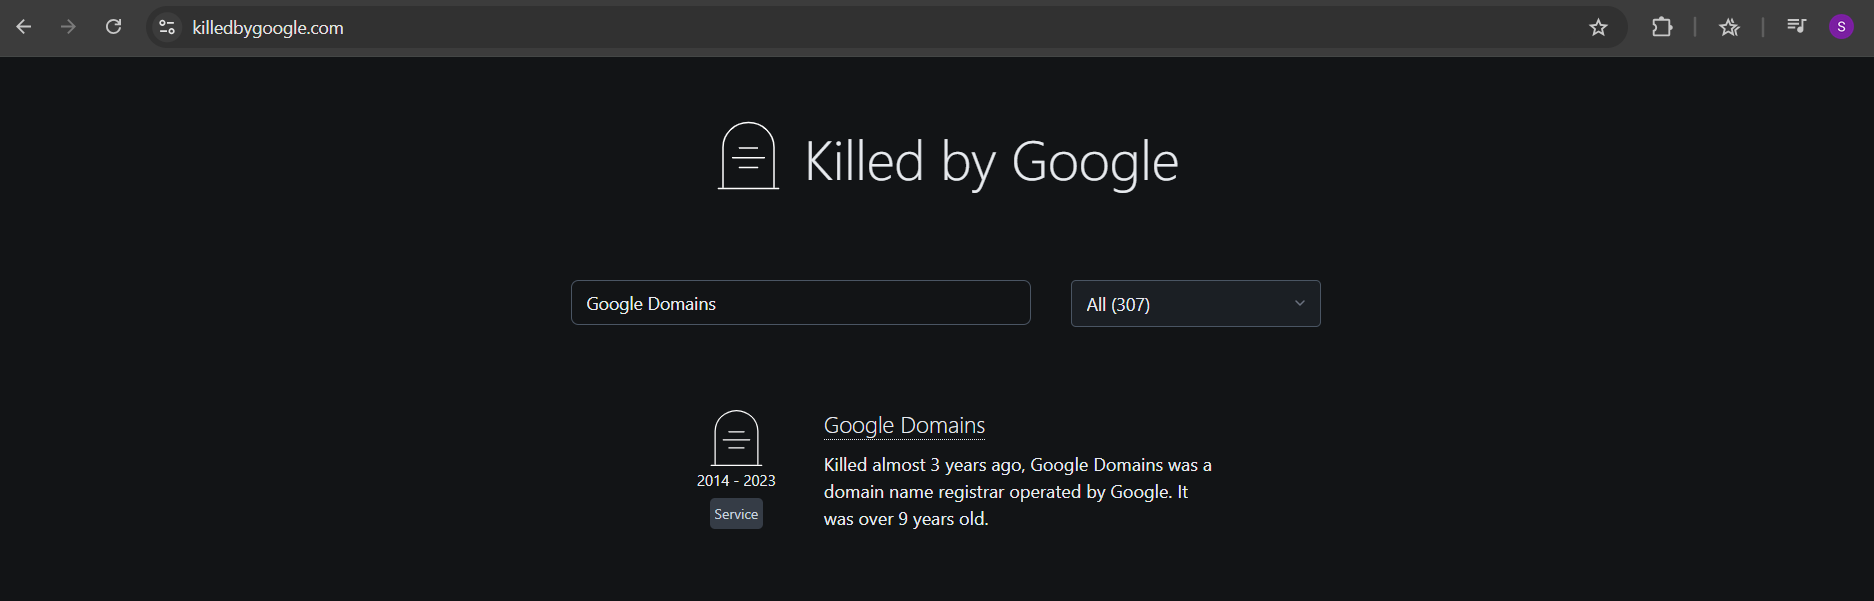
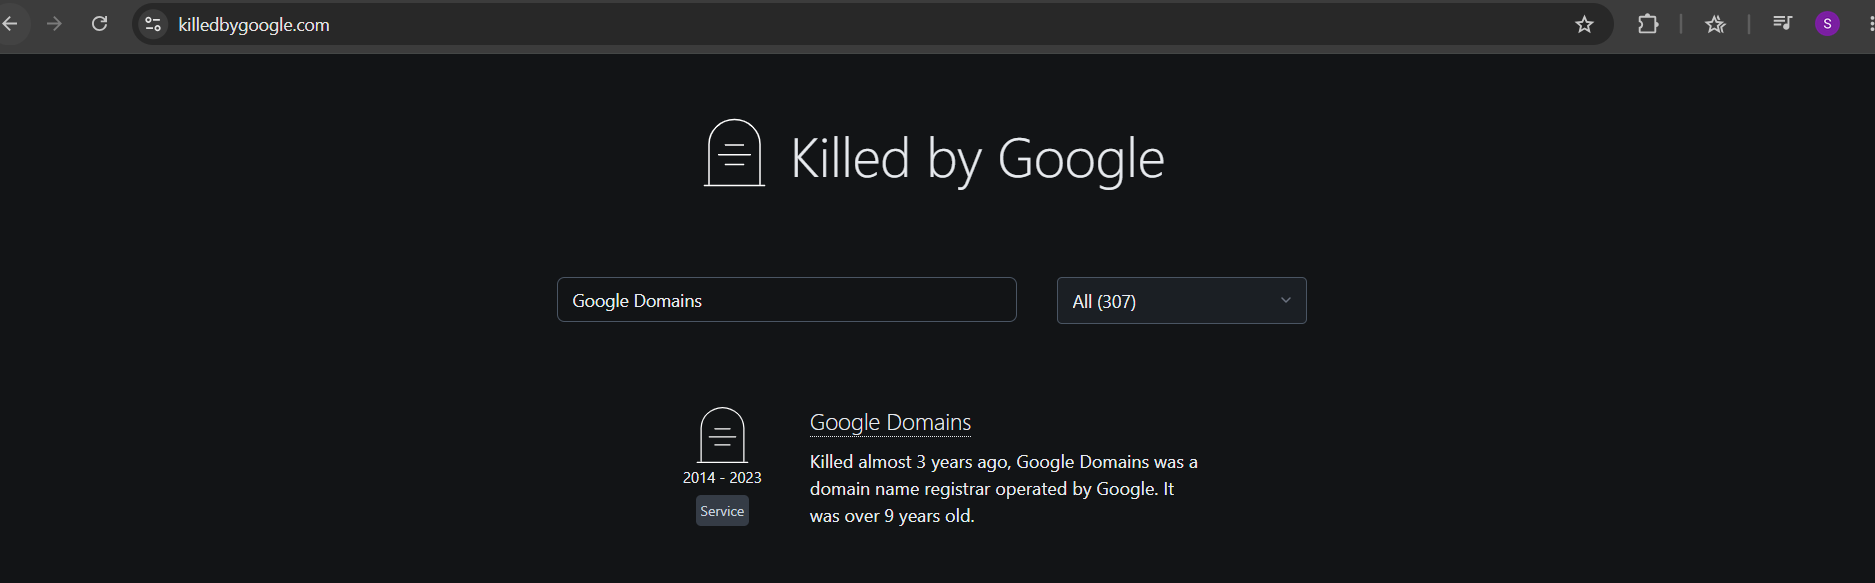
Publish 'why I moved to Jekyll' blog post
First real blog post, in both languages: the story of moving from
a React.js/Three.js portfolio to this Jekyll setup. Removes the
draft flag/comment and updates the two screenshots to their final
versions.

diff --git a/_posts/tr-tur/2026-09-20-neden-jekyll-tasidim.md b/_posts/tr-tur/2026-09-20-neden-jekyll-tasidim.md
@@ -1,5 +1,4 @@
 ---
-published: false
 layout: post
 title: Sitemi neden React.js'ten Jekyll'e taşıdım
 date: 2026-09-20 12:00:00+0300
@@ -9,28 +8,21 @@ categories: veri-mühendisliği
 related_posts: false
 ---
 
-<!--
-TASLAK — gözden geçir, kendi sesine göre son rötuşları sen yap.
-Yazı bitince en üstteki "published: false" satırını sil (ya da true yap), sonra canlıya alırız.
--->
-
-Okuldan mezuniyetime yakın bir zamanda, kişisel bir web sitemin olmasının faydalı olacağını düşünmeye başlamıştım. Hem teknik hem hobi amaçlı içeriklerimin bir arada bulunacağı, kişisel marka inşası için gerekli bir alan arayışındaydım. Kısacası, bir blog arayışım vardı.
+Okuldan mezuniyetime yakın, kişisel bir web sitemin olmasının hem teknik hem de hobi amaçlı içeriklerimi toplamak ve kişisel markamı inşa etmek için iyi bir adım olacağını düşünmeye başladım. Kısacası, bir blog arayışındaydım.
 
 ## Neden sıfırdan değil, bir klon proje ile başladım
 
-Bu alandaki uzmanlığımın henüz kısıtlı olması sebebiyle, bir klon projeyi kendi tercih ve isteklerime göre uyarlama fikri doğdu. Sıfırdan yapmak her ne kadar öğretici ve tecrübe kazanmak için iyi bir yöntem olsa da, siteyi inşa ettiğim 2024 yılında henüz iş hayatına atılmamıştım ve frontend/web geliştirmenin doygunlaşmaya başladığını, bu alanda çok fazla rekabet olduğunu görüyordum. Dolayısıyla kariyerime doğrudan fayda sağlamayacak bir alanda fazla zaman harcamak istemedim ve bir klon proje ile başlamaya karar verdim.
+Bu alandaki tecrübem henüz kısıtlı olduğu için, hazır bir klon projeyi kendi isteklerime göre uyarlama fikri cazip geldi. Sıfırdan yapmak şüphesiz öğretici bir yöntem; fakat siteyi inşa ettiğim 2024 yılında henüz iş hayatına atılmamıştım. Frontend ve web geliştirme alanının giderek doygunlaştığını, çok fazla rekabet olduğunu görüyordum. Doğrudan kariyerime odaklanmam gereken o dönemde, bu alanda fazla zaman harcamak istemedim ve bir klon projeyle yola çıktım.
 
-## İlham kaynağım: JavaScript Mastery
+YouTube'da uzun zamandır takip ettiğim [JavaScript Mastery](https://www.youtube.com/@javascriptmastery) kanalı bu süreçte oldukça işime yaradı. AI dönemi henüz başlamamışken bile uçtan uca çalışan, tutarlı teknolojileri anlatan harika tutoriallar paylaşıyorlar (hâlâ da üretmeye devam ediyorlar). Özellikle öğrenciyseniz kesinlikle göz atmalısınız. Zaten bir konuda hiçbir şey bilmeyip uzmanlaşmak istiyorsanız, uçtan uca çalışan bir proje yapmak yazılımcıların ne yaptığını anlamak ve neyi istemediğinizi fark etmek için en iyi yollardan biri.
 
-YouTube'da uzun zamandır takip ettiğim [JavaScript Mastery](https://www.youtube.com/@javascriptmastery) adında bir kanal var. AI hype'ı henüz doğmamışken, how-to tarzında tutoriallara sahip, yazılım geliştirmenin bir çok alanına dokunan bir kanal; özellikle okul ve kişisel projelerimiz için gerçekten ihtiyaç duyduğumuz, tutarlı teknolojileri anlatan içerikler paylaşıyorlar. Hâlâ çok başarılı içerikler üretiyorlar; özellikle hâlâ öğrenciyseniz videolarına göz atmanızı şiddetle tavsiye ederim. Bir konuda hiçbir şey bilmeyen ama o konuda uzmanlaşmak isteyen birine, her zaman uçtan uca çalışan bir klon proje yapmasını tavsiye etmişimdir — bu, developer'ların ne yaptığını anlamak isteyen biri için çok tecrübe dolu oluyor ve ne yapmak istediğini ya da istemediğini çok daha iyi kavrıyorsun.
-
-Bu araştırma sürecinde "Build and Deploy an Amazing 3D Web Developer Portfolio in React JS | Beginner Three.js Tutorial" adlı [videoyu](https://www.youtube.com/watch?v=0fYi8SGA20k) buldum. Başlangıç için statik bir sitenin fena olmayacağını, ileride kendime göre uyarlamak istersem bunun görece basit olacağı kanaatine vardım ve bu videodan faydalanarak projemi ayağa kaldırdım.
+Bu araştırmalar sırasında bulduğum "Build and Deploy an Amazing 3D Web Developer Portfolio in React JS \| Beginner Three.js Tutorial" adlı [videodan](https://www.youtube.com/watch?v=0fYi8SGA20k) faydalanarak ilk projemi ayağa kaldırdım. Başlangıç için statik ve havalı bir sitenin fena olmayacağını düşünmüştüm.
 
 ## İlk sürüm: domain arayışı ve React.js portföyü
 
-O zamanlar Google Domains üzerinden ad-soyad temalı domainlere bakıyordum; arzu ettiğim tüm domainlerin alınmış olması hayal kırıklığı yaratsa da sonunda `salihkilic.net`'i satın aldım. YouTube videosunu izleyerek projemi ayağa kaldırdım.
+O dönem Google Domains üzerinden ad-soyad temalı domain arıyordum. İstediğim adreslerin çoğu alınmış olsa da sonunda [salihkilic.net](https://salihkilic.net)'i satın aldım. Videoyu takip ederek projeyi kurdum.
 
-Kaynak kodunu dilerseniz [buradaki repo](https://github.com/Salih2000/mypersonelwebsiteportfolio-main) üzerinden inceleyebilirsiniz. Site hâlâ Firebase üzerinde durduğu için canlı halini de paylaşayım: [personel-website-53a82.web.app](https://personel-website-53a82.web.app/)
+Dilerseniz kaynak koduna [buradaki repo](https://github.com/Salih2000/mypersonelwebsiteportfolio-main) üzerinden göz atabilirsiniz. Site hâlâ Firebase üzerinde durduğu için canlı haline de [şuradan](https://personel-website-53a82.web.app/) ulaşabilirsiniz.
 
 {% include figure.liquid loading="eager" path="assets/img/2026-09-20-old-react-portfolio.png" class="img-fluid rounded z-depth-1" %}
 <div class="caption">
@@ -39,15 +31,15 @@ Kaynak kodunu dilerseniz [buradaki repo](https://github.com/Salih2000/mypersonel
 
 ## Sorun: 3D sahnelerin ve yüksek render maliyetinin bedeli
 
-Kişisel sitemi ayağa kaldırdıktan sonra, yoğun 3D sahne kullanımının görsel olarak iyi görünse de performans, indeksleme (indexing) ve SEO açısından ciddi problemler yarattığını fark ettim.
+Sitemi ayağa kaldırdıktan sonra fark ettim ki, yoğun 3D sahne kullanımı görsel olarak ne kadar şık dursa dursun; performans, indeksleme (indexing) ve SEO açısından ciddi sıkıntılar yaratıyordu.
 
-## Yeni arayış: içerik/blog odaklı bir teknolojiye geçiş
+## Yeni arayış: içerik odaklı bir teknoloji
 
-Sektörde adını duyurmuş birçok geliştiricinin blog ve içerik üretimi temalı web siteleri olduğunu görünce, blogumu üretebileceğim bir teknolojiye geçme fikri oluştu. Klasik WordPress ya da benzeri araçları da araştırdım ama arzu ettiğim açık kaynak kodlama esnekliğini tam olarak yakalayamadım. Bir arkadaşımın tavsiyesiyle Jekyll'in bu tarz işler için çok ideal olduğunu öğrendim ve GitHub üzerinde hazır blog temalarını araştırmaya başladım.
+Sektörde beğendiğim birçok geliştiricinin içerik üretimi odaklı sade web siteleri olduğunu görünce, benim de bu yöne evrilmem gerektiğine karar verdim. Klasik WordPress veya benzeri araçları inceledim ancak aradığım açık kaynak kod esnekliğini bulamadım. Bir arkadaşımın tavsiyesiyle Jekyll'in bu iş için biçilmiş kaftan olduğunu öğrendim ve GitHub üzerindeki hazır temaları incelemeye başladım.
 
-İşte o sırada, tam da istediğim gibi sade, içerik odaklı, düzenli olarak topluluk tarafından desteklenen, Jekyll ile inşa edilen ve GitHub Pages'te ücretsiz olarak host edip kendi domainime bağlayabileceğim [al-folio](https://github.com/alshedivat/al-folio) temasına denk geldim. Kurulumu biraz zaman alsa da dokümantasyonuna bakarak canlıya aldım.
+Tam da aradığım gibi sade, içerik odaklı, topluluk tarafından aktif desteklenen ve GitHub Pages üzerinde ücretsiz barındırıp kendi domainime bağlayabileceğim [al-folio](https://github.com/alshedivat/al-folio) temasına denk geldim. Kurulumu biraz vakit alsa da dokümantasyonu takip ederek sistemi canlıya aldım.
 
-Domainimi eski React formatıyla ayağa kaldırdıktan sonra aradan biraz zaman geçmişti; o sırada Google Domains'in Google tarafından kapatıldığına dair mail gelmiş olsa da tam takip edememiştim ([killedbygoogle.com](https://killedbygoogle.com/)). Akabinde Squarespace üzerinden ilgili DNS yönlendirmelerini yaparak web sitemi tekrar ayağa kaldırdım.
+Bu süreçte Google Domains'in Google tarafından kapatıldığını öğrendim ([killedbygoogle.com](https://killedbygoogle.com/)). Hemen Squarespace üzerinden gerekli DNS yönlendirmelerini yaparak sitemi sorunsuz şekilde tekrar aktif hale getirdim.
 
 {% include figure.liquid loading="eager" path="assets/img/2026-09-20-killed-by-google.png" class="img-fluid rounded z-depth-1" %}
 <div class="caption">
@@ -56,16 +48,18 @@ Domainimi eski React formatıyla ayağa kaldırdıktan sonra aradan biraz zaman 
 
 ## Şu an neden bu yapıda karar kıldım
 
-Mevcut haliyle, blog anlamında bir veri alanına ihtiyaç duyan, çalışan bir geliştirici olarak şimdilik tüm ihtiyaçlarımı karşılayacağını fark ettim. Şu özellikleri özellikle işime yarıyor:
+Mevcut yapım, çalışan bir geliştirici olarak tüm temel ihtiyaçlarımı fazlasıyla karşılıyor:
 
-- **Çoklu dil desteği** — Türkçe ve İngilizce içeriği aynı sitede, hem yerel hem uluslararası kitleye hitap edebiliyorum.
-- **Markdown ile içerik üretimi** — kod yazmadan, sade bir metin dosyasıyla yeni bir yazı yayınlayabiliyorum.
-- **GitHub Pages üzerinde tamamen ücretsiz barındırma**, kendi domainimi bağlayabilme imkanıyla birlikte.
-- **Tek bir veri dosyasından CV üretimi** — özgeçmiş bilgim hem web sayfası hem indirilebilir PDF olarak tek kaynaktan güncelleniyor.
-- **Hazır analitik entegrasyonları** — Google Analytics, Search Console ve Microsoft Clarity gibi araçları birkaç satır ayarla bağlayabiliyorum.
-- **Statik site olduğu için hızlı yüklenme ve SEO dostu yapı** — eski sitemdeki 3D sahne yükünün aksine.
-- **GitHub Actions ile otomatik deploy** — bir değişikliği push'ladığımda site kendiliğinden güncelleniyor.
+- **Çoklu dil desteği:** Türkçe ve İngilizce içeriği aynı sitede tutabiliyorum; hem yerel hem uluslararası kitleye hitap edebiliyorum.
+- **Kolay içerik üretimi:** Yeni bir yazı yazmak için kod yazmama gerek kalmıyor; sade bir Markdown dosyası açmak yeterli oluyor.
+- **Sıfır maliyet ve kolay barındırma:** GitHub Pages üzerinde tamamen ücretsiz host ediliyor ve kendi domainimle çalışıyor.
+- **Tek kaynaktan CV:** Özgeçmişim tek bir veri dosyasından besleniyor; bilgileri bir kez güncellediğimde hem web sayfası hem de indirilebilir PDF otomatik güncelleniyor.
+- **Kolay entegrasyonlar:** Google Analytics, Search Console ve Microsoft Clarity gibi araçları birkaç satırlık ayarla bağladım, ekstra bir entegrasyon derdi yok.
+- **Hız ve SEO:** Statik bir yapıda olduğu için hem uçuyor hem de SEO dostu; eski sitemdeki ağır 3D sahnelerin tam zıttı bir performans sunuyor.
+- **Otomatik dağıtım:** GitHub Actions sayesinde repoya ufak bir push yaptığımda site anında güncelleniyor.
 
-Aslında bu yazının içeriği başta "bunu siz de nasıl yaparsınız" tarzı bir rehber olacaktı; ama sonunda bunun yerine "neden bunu tercih ettim" yazısı olmasının daha uygun olduğuna karar verdim. Çünkü günümüzde yapay zeka sayesinde böyle bir siteyi ayağa kaldırmak, açıkçası benim burada yazacağım bir rehberden çok daha fazla yardımcı olacaktır size — muhtemelen blogumda oluşturmak istediğim içerikler de artık "nasıl yapılır" demekten ziyade "neden tercih ettim" ve o konudaki geri dönütlerime yönelik olacak, zira Agentic AI artık bu tarz kurulum/manuel süreçleri çok daha anlaşılır ve uygulanabilir şekilde sunuyor.
+Aslında bu yazının ilk taslağı "bunu siz de nasıl adım adım kurarsınız" tarzı bir rehber olacaktı. Fakat bunun yerine "neden bu tercihi yaptım" yazısı olmasının daha doğru olduğuna karar verdim. Çünkü günümüzde yapay zeka araçları sayesinde bu tarz teknik kurulumları yapmak, benim burada anlatacağımdan çok daha kolay ve anlaşılır hale geldi. Muhtemelen bundan sonra blogumda üreteceğim içerikler de "nasıl yapılır" rehberlerinden ziyade, "neden tercih ettim" odaklı ve teknik tecrübelerimi aktardığım yazılar olacak.
 
-Gün sonunda mevcut yapıda ağırlıklı ve kaliteli sayılabilecek bir içeriğim henüz yok; bunlara nasıl zaman ayıracağımı planlamam gereken bir durum. Lakin yakın zamanda blogumu doldurmayı düşünüyorum — gerek mesleki deneyim ve uzmanlığıma, gerekse hobilerime ve günlük hayatta yaşadığım durumlara yönelik içerikler olabilir bunlar.
+Şimdilik kaliteli ve ağırlıklı sayılabilecek geniş bir içeriğim henüz yok (henüz! :D), bunlara nasıl zaman ayıracağımı planlıyorum. Lakin yakın zamanda hem mesleki birikimlerimi hem de günlük hayattaki hobilerimi ve deneyimlerimi buraya taşımayı düşünüyorum.
+
+Eğer siz de bu tarz bir altyapıyı kurmak isterseniz, kullandığım çok dilli [al-folio](https://github.com/george-gca/multi-language-al-folio) reposunun README dokümantasyonunu bir AI aracıyla birlikte incelemenizi şiddetle tavsiye ederim. Az çok teknik altyapınız varsa hiç de zor değil. Dost ve müttefik çevremdeyseniz zaten doğrudan bana da ulaşabilirsiniz, seve seve yönlendiririm.

diff --git a/_posts/en-us/2026-09-20-neden-jekyll-tasidim.md b/_posts/en-us/2026-09-20-neden-jekyll-tasidim.md
@@ -1,5 +1,4 @@
 ---
-published: false
 layout: post
 title: Why I moved my site from React.js to Jekyll
 date: 2026-09-20 12:00:00+0300
@@ -9,28 +8,21 @@ categories: data-engineering
 related_posts: false
 ---
 
-<!--
-DRAFT — review it and add your own final touches in your own voice.
-Once the post is finished, remove (or set to true) the "published: false" line above, then we'll publish it.
--->
-
-Around the time I was about to graduate from university, I started thinking that having a personal website could be valuable — a place to bring my technical and hobby content together, and something I needed for building a personal brand. In short, I was looking for a blog.
+Around the time I was about to graduate from university, having a personal website started to seem like a good step for bringing together both my technical and hobby content and for building my personal brand. In short, I was looking for a blog.
 
 ## Why I started with a clone project instead of building from scratch
 
-Since my expertise in this area was still limited, I got the idea of adapting a clone project to my own preferences and needs. Building something from scratch is a great way to learn and gain experience, but back in 2024, when I built the site, I hadn't yet entered the workforce, and I could already see that frontend/web development was becoming saturated with a lot of competition. So I didn't want to spend too much time in an area that wouldn't directly benefit my career, and decided to start with a clone project instead.
+Since my experience in this area was still limited, the idea of adapting a ready-made clone project to my own needs seemed appealing. Building from scratch is undoubtedly a great way to learn; but back in 2024, when I built the site, I hadn't yet entered the workforce. I could see that frontend and web development was becoming increasingly saturated, with a lot of competition. Needing to focus directly on my career at the time, I didn't want to spend too much time in this area, and went with a clone project instead.
 
-## My inspiration: JavaScript Mastery
+The [JavaScript Mastery](https://www.youtube.com/@javascriptmastery) channel, which I've followed on YouTube for a long time, was a big help during this process. Even before the AI era began, they were sharing great tutorials on consistent, end-to-end working technologies (and they still are). If you're a student, you should definitely check them out. If you know nothing about a topic and want to specialize in it, building an end-to-end working project is one of the best ways to understand what developers actually do and to figure out what you don't want to do.
 
-There's a YouTube channel I've followed for a long time called [JavaScript Mastery](https://www.youtube.com/@javascriptmastery). Back before the AI hype, it was a channel with how-to style tutorials touching many areas of software development — sharing content about the consistent technologies we actually need for school and personal projects. They still put out great content; I'd strongly recommend checking out their videos, especially if you're still a student. I've always recommended that someone who knows nothing about a topic but wants to specialize in it should build a complete, working clone project end to end — it's an experience that really helps you understand what developers actually do, and gives you a much better sense of what you do and don't want to do yourself.
-
-During this research, I came across a video called "Build and Deploy an Amazing 3D Web Developer Portfolio in React JS | Beginner Three.js Tutorial" ([link](https://www.youtube.com/watch?v=0fYi8SGA20k)). I figured a static site wouldn't be a bad starting point, and that it would be relatively simple to customize later on my own, so I used this video to get my project off the ground.
+Using the ["Build and Deploy an Amazing 3D Web Developer Portfolio in React JS \| Beginner Three.js Tutorial"](https://www.youtube.com/watch?v=0fYi8SGA20k) video I found during this research, I got my first project off the ground. I figured a static, flashy site wouldn't be a bad starting point.
 
 ## First version: the domain search and the React.js portfolio
 
-Back then I was searching Google Domains for domains matching my name; it was disappointing to find all the domains I wanted already taken, but I eventually bought `salihkilic.net`. I built my project by following the YouTube video.
+Back then I was searching Google Domains for domains matching my name. Most of the addresses I wanted were already taken, but I eventually bought [salihkilic.net](https://salihkilic.net). I built the project by following the video.
 
-If you'd like, you can check out the source code in [this repo](https://github.com/Salih2000/mypersonelwebsiteportfolio-main). The site is still hosted on Firebase, so here's the live version too: [personel-website-53a82.web.app](https://personel-website-53a82.web.app/)
+If you'd like, you can check out the source code in [this repo](https://github.com/Salih2000/mypersonelwebsiteportfolio-main). The site is still hosted on Firebase, so you can also reach the live version [here](https://personel-website-53a82.web.app/).
 
 {% include figure.liquid loading="eager" path="assets/img/2026-09-20-old-react-portfolio.png" class="img-fluid rounded z-depth-1" %}
 <div class="caption">
@@ -39,15 +31,15 @@ If you'd like, you can check out the source code in [this repo](https://github.c
 
 ## The problem: 3D scenes and the inevitable cost of heavy rendering
 
-After getting my personal site up and running, I noticed that the heavy use of 3D scenes, while visually nice, was causing serious problems with performance, indexing, and SEO.
+After getting my site up and running, I realized that heavy use of 3D scenes, no matter how stylish it looked visually, was causing serious problems with performance, indexing, and SEO.
 
-## The new search: moving to a content/blog-focused technology
+## The new search: a content-focused technology
 
-Once I noticed that many developers who had made a name for themselves in the industry had blog- and content-focused websites, I got the idea of moving to a technology where I could actually produce a blog. I also looked into classic WordPress and similar tools, but they didn't quite give me the open-source flexibility I wanted. A friend recommended Jekyll as ideal for this kind of work, so I started researching ready-made blog themes on GitHub.
+Once I noticed that many developers I admired in the industry had clean, content-focused websites, I decided I needed to move in that direction too. I looked into classic WordPress and similar tools, but couldn't find the open-source flexibility I was after. A friend recommended Jekyll as tailor-made for this kind of work, so I started looking through ready-made themes on GitHub.
 
-That's when I came across [al-folio](https://github.com/alshedivat/al-folio) — exactly the kind of clean, content-focused theme I wanted, built on Jekyll, actively maintained by its community, and something I could host for free on GitHub Pages while connecting it to my own domain. The setup took a bit of time, but I got it live by following the documentation.
+That's when I came across [al-folio](https://github.com/alshedivat/al-folio) — exactly the clean, content-focused theme I was looking for, actively maintained by its community, and something I could host for free on GitHub Pages while connecting it to my own domain. The setup took a bit of time, but I got the system live by following the documentation.
 
-Some time had passed since I'd set my domain up with the old React version; around then an email had come in about Google Domains being shut down by Google, but I hadn't really kept up with it ([killedbygoogle.com](https://killedbygoogle.com/)). I then set up the DNS redirects through Squarespace and got my website running again.
+Around this time I learned Google Domains had been shut down by Google ([killedbygoogle.com](https://killedbygoogle.com/)). I quickly set up the necessary DNS redirects through Squarespace and got my site back up and running without issue.
 
 {% include figure.liquid loading="eager" path="assets/img/2026-09-20-killed-by-google.png" class="img-fluid rounded z-depth-1" %}
 <div class="caption">
@@ -56,16 +48,18 @@ Some time had passed since I'd set my domain up with the old React version; arou
 
 ## Why I've settled on this setup for now
 
-As it stands, I've realized this covers all of my needs for now as a working developer who wants a space for a blog. A few things that have particularly worked well for me:
+As a working developer, my current setup more than covers all of my basic needs:
 
-- **Multi-language support** — Turkish and English content on the same site, so I can speak to both a local and an international audience.
-- **Writing content in Markdown** — I can publish a new post with a plain text file, no coding required.
-- **Completely free hosting on GitHub Pages**, along with the ability to connect my own domain.
-- **CV generation from a single data file** — my resume information is updated from one source, shown both as a web page and as a downloadable PDF.
-- **Ready-made analytics integrations** — I can wire up tools like Google Analytics, Search Console, and Microsoft Clarity with just a few config lines.
-- **Fast load times and an SEO-friendly structure since it's a static site** — the opposite of the 3D scene overhead on my old site.
-- **Automatic deployment via GitHub Actions** — the site updates itself whenever I push a change.
+- **Multi-language support:** I can keep Turkish and English content on the same site, speaking to both a local and an international audience.
+- **Easy content creation:** I don't need to write any code for a new post; opening a plain markdown file is enough.
+- **Zero cost, easy hosting:** it's hosted completely free on GitHub Pages and works with my own domain.
+- **CV from a single source:** my resume is driven from a single data file; when I update the information once, both the web page and the downloadable PDF update automatically.
+- **Easy integrations:** I wired up tools like Google Analytics, Search Console, and Microsoft Clarity with just a few lines of config, no extra integration hassle.
+- **Speed and SEO:** being a static setup, it's both blazing fast and SEO-friendly — the exact opposite of the performance under the heavy 3D scenes on my old site.
+- **Automatic deployment:** thanks to GitHub Actions, the site updates instantly the moment I push even a small change to the repo.
 
-Honestly, this post was originally going to be a "here's how you can do this too" style guide; in the end, though, I decided a "why I chose this" post made more sense. Because these days, thanks to AI, setting up a site like this will honestly help you a lot more than any guide I could write here — the content I want to build on my blog going forward will probably lean more toward "why I chose this" and my own feedback on it, rather than "here's how," since Agentic AI now handles this kind of setup/manual process in a much more understandable and operable way.
+Honestly, the first draft of this post was going to be a "here's how you can set this up step by step" style guide. But I decided a "why I made this choice" post made more sense instead. Because these days, thanks to AI tools, doing this kind of technical setup has become much easier and more understandable than anything I could explain here. The content I'll probably produce on my blog from now on will likely be less "how-to" guides and more posts focused on "why I chose this," sharing my technical experience along the way.
 
-At the end of the day, I don't yet have content on here that I'd call substantial or high-quality, and I need to figure out how I'll make time for that. But I'm planning to start filling up my blog soon — it'll probably be a mix of my professional experience and expertise, my hobbies, and things from everyday life.
+For now I don't yet have a large body of content I'd call high-quality or substantial (not yet! :D), and I'm planning how I'll make time for that. But I'm thinking of bringing both my professional background and my everyday hobbies and experiences here soon.
+
+If you'd like to set up this kind of stack yourself, I'd strongly recommend going through the README documentation of the multi-language [al-folio](https://github.com/george-gca/multi-language-al-folio) repo I used, with the help of an AI tool. If you have even a bit of a technical background, it's not hard at all. And if you're one of my friends and allies, you can just reach out to me directly — I'm happy to point you in the right direction.
